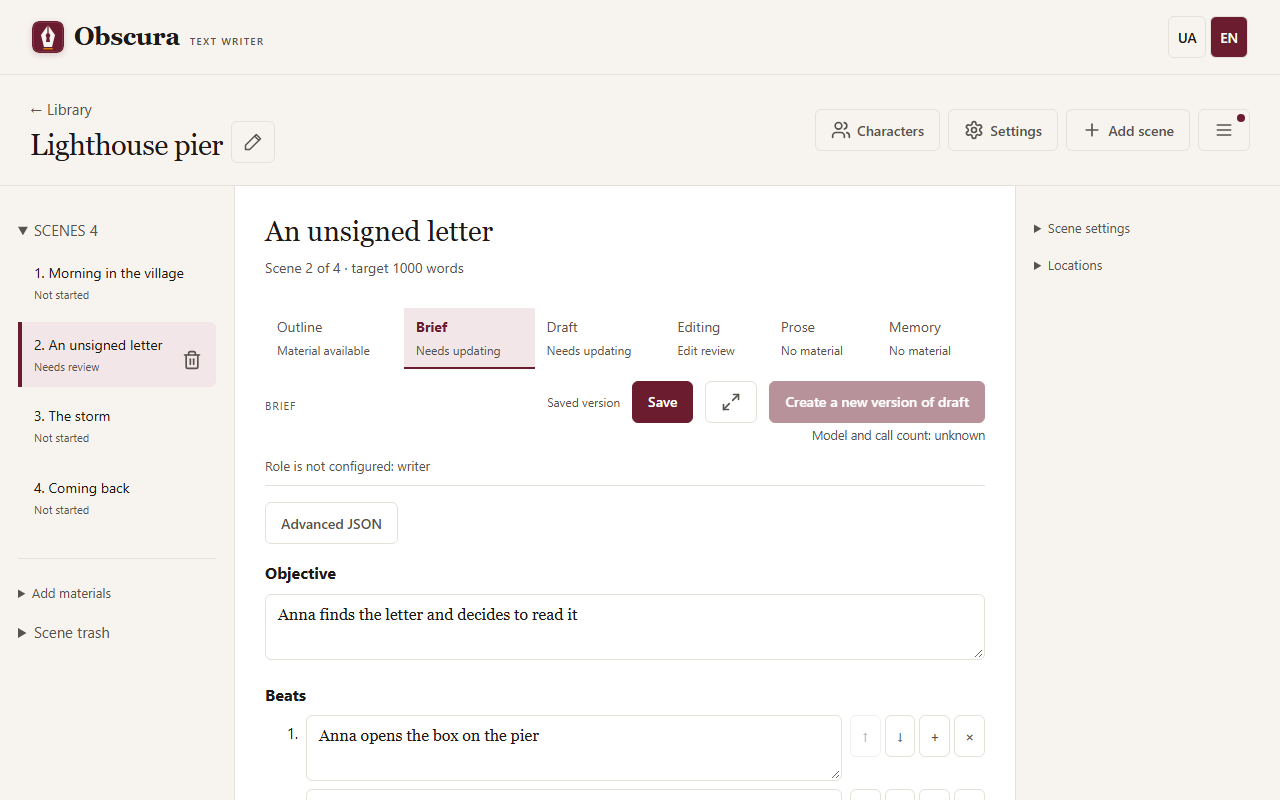
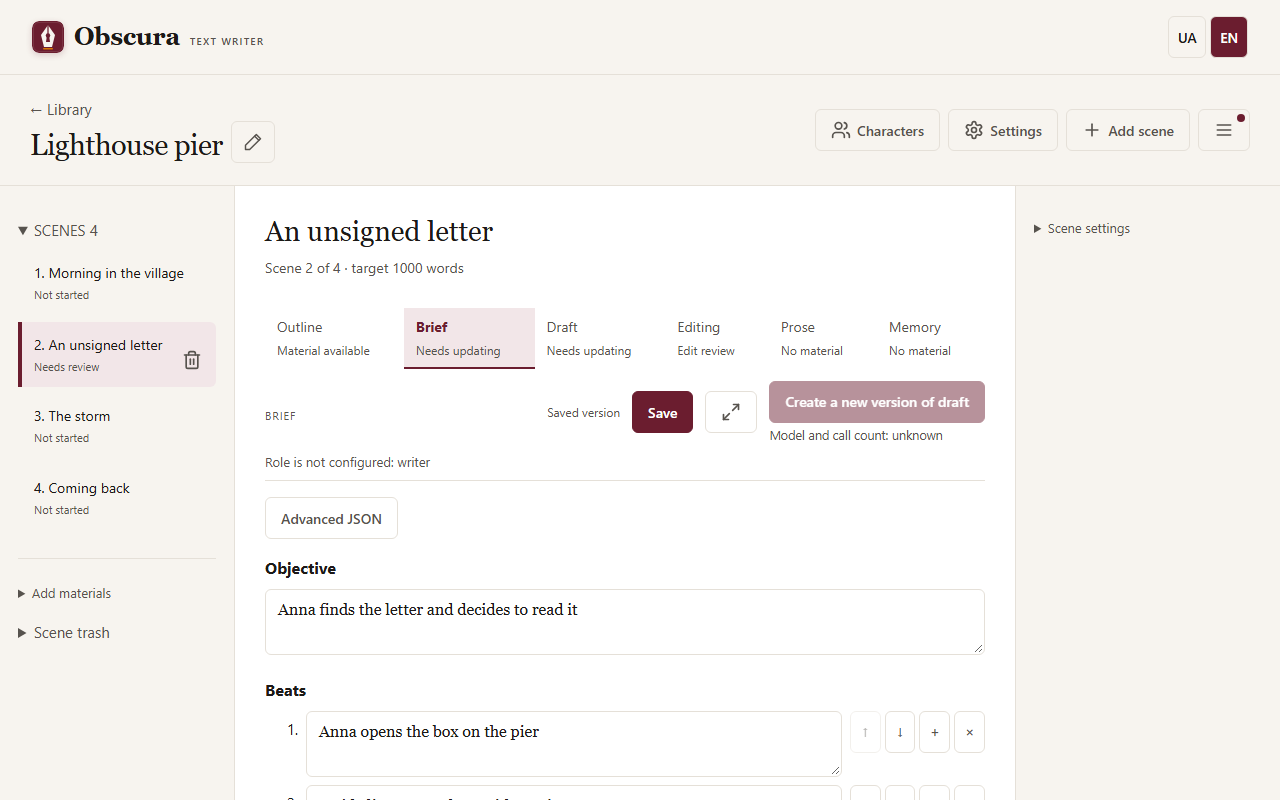
fix(locations): панель «Локації» — у вкладці «Пам'ять», не в правій панелі (#67)
Права панель за WORKSPACE-TOOLS містить лише розділи сцени; розділ «Локації» тепер іде після «Підсумків хронології».
Виправлено фейковий View у test_core_projection і значення location_id у test_long_prose_guard; знімки сайту — лише нові.

diff --git a/src/storygen/web/templates/story.html b/src/storygen/web/templates/story.html
@@ -7,7 +7,7 @@
 <section id="workspace-material" role="tabpanel" tabindex="-1" aria-labelledby="current-kind"><section id="memory-view" aria-label="{{ t('m_e8666e7283dd') }}" data-i18n-attrs='{"aria-label": "m_e8666e7283dd"}' hidden></section><section id="brief-proposal" hidden></section><textarea id="editor" aria-labelledby="scene-title current-kind" spellcheck="true" placeholder="{{ t('m_af47cedafa12') }}" data-i18n-attrs='{"placeholder": "m_af47cedafa12"}'></textarea><section id="brief-form" class="brief-form" aria-label="{{ t('brief_form.title') }}" data-i18n-attrs='{"aria-label": "brief_form.title"}' hidden></section><section id="brief-link" hidden></section><section id="author-comments" hidden></section><section id="ghost-entry" hidden></section><section id="ghost-mode" hidden></section><section id="assisted-writing" hidden></section><section id="assisted-review" hidden></section><section id="scene-statistics" class="scene-statistics" aria-label="{{ t('m_f6dc49558ea8') }}" data-i18n-attrs='{"aria-label": "m_f6dc49558ea8"}'></section><details class="workspace-output"><summary><span data-i18n="workspace.model_text">{{ t('workspace.model_text') }}</span></summary><pre id="live-text" hidden></pre></details><div id="copyedit-panel" hidden></div></section><p id="workspace-hint-info" class="workspace-hint-info" role="status"></p><section id="workspace-status-row" class="workspace-status-row" aria-label="{{ t('m_f9396174436c') }}" data-i18n-attrs='{"aria-label": "m_f9396174436c"}'><p id="workspace-scene-status" class="scene-status-badge"></p><div id="run-status"></div><div id="run-actions"></div><a id="workspace-error-settings" class="button secondary" hidden><span data-i18n="m_d8f26ba2b72c">{{ t('m_d8f26ba2b72c') }}</span></a>{% if edition() != 'store' %}<details id="run-options" class="run-options"><summary><span data-i18n="workspace.run_options">{{ t('workspace.run_options') }}</span></summary></details>{% endif %}</section><div id="review-attention" class="review-attention" tabindex="-1" hidden><p><a href="/stories/{{story.id}}/revision" data-i18n="workspace.review_attention">{{ t('workspace.review_attention') }}</a></p><section id="review-session" data-scope="attention" aria-live="polite" hidden></section></div>
 <details id="workspace-history"><summary><span data-i18n="m_1653560c8db6">{{ t('m_1653560c8db6') }}</span></summary><div id="version-panel"></div></details>
 {% if edition() != 'store' %}<details class="workspace-extra"><summary><span data-i18n="m_788d4b38107e">{{ t('m_788d4b38107e') }}</span></summary><div id="generation-controls" hidden></div></details>{% endif %}</main>
-<aside class="context-panel"><details class="tool-section" data-section="scene"><summary><span data-i18n="workspace.scene_section">{{ t('workspace.scene_section') }}</span></summary><div id="context-content"><p class="muted"><span data-i18n="m_8fe8cb15943c">{{ t('m_8fe8cb15943c') }}</span></p></div></details><details class="tool-section" data-section="locations"><summary><span data-i18n="locations.title">{{ t('locations.title') }}</span></summary><div id="story-locations"></div></details><details class="tool-section" data-section="evaluation" id="evaluation-section" hidden><summary><span data-i18n="workspace.evaluation_section">{{ t('workspace.evaluation_section') }}</span></summary><div id="evaluation-panel"></div></details></aside></div></div>
+<aside class="context-panel"><details class="tool-section" data-section="scene"><summary><span data-i18n="workspace.scene_section">{{ t('workspace.scene_section') }}</span></summary><div id="context-content"><p class="muted"><span data-i18n="m_8fe8cb15943c">{{ t('m_8fe8cb15943c') }}</span></p></div></details><details class="tool-section" data-section="evaluation" id="evaluation-section" hidden><summary><span data-i18n="workspace.evaluation_section">{{ t('workspace.evaluation_section') }}</span></summary><div id="evaluation-panel"></div></details></aside></div></div>
 <dialog id="export-dialog" class="export-dialog" aria-labelledby="export-dialog-title"><h2 id="export-dialog-title"><span data-i18n="workspace.menu_export">{{ t('workspace.menu_export') }}</span></h2><form id="export-form">
 <label><span data-i18n="m_b9563c38abce">{{ t('m_b9563c38abce') }}</span><select id="export-format"><option value="md">Markdown (.md)</option><option value="txt" data-i18n="m_99acdacdf084">{{ t('m_99acdacdf084') }}</option><option value="fb2">FictionBook (.fb2)</option><option value="epub" data-i18n="m_106712c3b6d5">{{ t('m_106712c3b6d5') }}</option><option value="pdf" data-i18n="m_e63157c8c14c">{{ t('m_e63157c8c14c') }}</option><option value="plan" data-i18n="export.plan_option">{{ t('export.plan_option') }}</option></select></label>
 <p id="export-fb2-note" class="muted" hidden><span data-i18n="m_5ba4a02d2226">{{ t('m_5ba4a02d2226') }}</span> <a href="/stories/{{story.id}}/publication"><span data-i18n="m_b58c6a66c1b7">{{ t('m_b58c6a66c1b7') }}</span></a>.</p><p class="muted"><span data-i18n="export.local_files">{{ t('export.local_files') }}</span></p>

diff --git a/src/storygen/web/static/locations-panel.js b/src/storygen/web/static/locations-panel.js
@@ -1,4 +1,5 @@
-// MEMORY-LOCATIONS-S07: the «Locations» section of the story side panel. Cards come from «Локація:» lines of scene plans;
+// MEMORY-LOCATIONS-S07: the «Locations» section of the memory panel (story-level, like timeline summaries; the right
+// side panel holds only scene sections, WORKSPACE-TOOLS). Cards come from «Локація:» lines of scene plans;
 // the author merges look-alikes, splits them back, hides a suggestion and writes a description for the planner and the
 // writer. Every change is CAS on the story revision; a refused save keeps the typed description.
 import {t,msg,uiText,uiAttr,diagnostic} from './i18n.js';
@@ -13,7 +14,12 @@ const drafts=new Map();  // card id -> typed description not saved yet
 
 const node=(tag,render,className)=>{const n=document.createElement(tag);if(className)n.className=className;if(render)uiText(n,'textContent',render);return n};
 function button(render,onclick,primary=false){const b=node('button',render,primary?'':'secondary');b.type='button';b.disabled=busy;b.onclick=onclick;return b}
-const box=()=>document.querySelector('#story-locations');
+function box(){
+  const panel=document.querySelector('#memory-view');if(!panel)return null;
+  let section=panel.querySelector('#story-locations');
+  if(!section){section=document.createElement('section');section.id='story-locations';section.className='story-locations';panel.append(section)}
+  return section;
+}
 
 function description(row){
   const wrap=node('details',null,'location-description');
@@ -41,7 +47,7 @@ function chooser(row){
 
 function draw(){
   const section=box();if(!section)return;
-  section.replaceChildren(node('p',()=>t('locations.hint'),'hint'));
+  section.replaceChildren(node('h3',()=>t('locations.title')),node('p',()=>t('locations.hint'),'hint'));
   const rows=locationRows(data);
   if(!rows.length){section.append(node('p',()=>t('locations.empty')));return}
   const hints=suggestionRows(data);
@@ -76,7 +82,7 @@ function draw(){
 }
 
 async function load(){
-  if(!state.storyId||!box())return;
+  if(!state.storyId||!document.querySelector('#memory-view'))return;
   if(storyId!==state.storyId){drafts.clear();choosing=null;storyId=state.storyId}
   try{data=await api(`/api/stories/${state.storyId}/locations`)}catch(e){data=null}
   draw();

diff --git a/src/storygen/web/static/app.css b/src/storygen/web/static/app.css
@@ -677,10 +677,11 @@ body.ghost-open #notice { z-index: 70; }
 .timeline-summary-state{color:var(--muted,#666);font-size:.9em}
 .timeline-summary-text{white-space:pre-wrap}
 .timeline-summary-editor{width:100%;box-sizing:border-box}
-/* MEMORY-LOCATIONS-S07: the «Locations» section of the story side panel. */
+/* MEMORY-LOCATIONS-S07: the «Locations» section of the memory panel. */
+.story-locations{margin-top:1.5rem;border-top:1px solid var(--border,#ccc);padding-top:1rem}
 .location-row{margin:.75rem 0}
 .location-row>p{margin:.25rem 0}
-.location-description textarea{width:100%;box-sizing:border-box}
+.location-description textarea{width:100%;box-sizing:border-box;min-height:4.5rem;height:auto}
 .location-description[open]>summary .location-preview{display:none}
 .location-suggestion{margin:.5rem 0}
 

diff --git a/scripts/capture_screenshots.py b/scripts/capture_screenshots.py
@@ -121,13 +121,14 @@ def capture(base,ids,languages):
                         page.goto(f'{base}/stories/{story}?scene={scene}&material=brief');page.wait_for_load_state('networkidle')
                         page.locator('#brief-form').wait_for(state='visible');shot(page,folder/'brief-form-desktop.png',shots)
                     if suffix=='desktop':
-                        # MEMORY-LOCATIONS-S07: the «Locations» section of the side panel with a suggestion and a description.
-                        section=page.locator('details.tool-section[data-section=locations]')
-                        if not section.evaluate('node=>node.open'):section.locator(':scope > summary').click()
+                        # MEMORY-LOCATIONS-S07: the «Locations» section of the memory panel with a suggestion and a description.
+                        page.set_viewport_size({'width':1280,'height':2400})  # the whole section without the sticky tabs over it
+                        page.goto(f'{base}/stories/{story}?scene={scene}&material=memory');page.wait_for_load_state('networkidle')
+                        section=page.locator('#memory-view #story-locations')
                         section.locator('.location-row').first.wait_for();section.locator('.location-description').first.locator('summary').click()
                         section.scroll_into_view_if_needed();page.wait_for_timeout(300)
                         section.screenshot(path=str(folder/'locations-desktop.png'));shots.append(folder/'locations-desktop.png')
-                        section.locator(':scope > summary').click()
+                        page.set_viewport_size(viewport);page.goto(f'{base}/stories/{story}?scene={scene}&material=draft');page.wait_for_load_state('networkidle')
                     page.locator('#story-menu-toggle').click();page.locator('#story-menu').wait_for();shot(page,folder/f'story-menu-{suffix}.png',shots)
                     if suffix=='desktop':
                         for path,name in [(f'/stories/{story}/revision','revision'),(f'/stories/{story}/characters','characters'),

diff --git a/tests/web/test_locations_ui.py b/tests/web/test_locations_ui.py
@@ -23,7 +23,8 @@ def test_panel_rows_and_shared_revision():
 @pytest.mark.req('MEMORY-LOCATIONS')
 def test_story_page_has_the_section_and_both_languages_have_the_texts():
     page = (ROOT / 'src/storygen/web/templates/story.html').read_text(encoding='utf-8')
-    assert '/static/locations-panel.js' in page and 'data-section="locations"' in page and 'id="story-locations"' in page
+    assert '/static/locations-panel.js' in page
+    assert 'data-section="locations"' not in page  # WORKSPACE-TOOLS: the side panel holds only scene sections
     catalog = json.loads((STATIC / 'i18n.json').read_text(encoding='utf-8'))
     keys = {k for k in catalog['uk'] if k.startswith('locations.')} | {'memory.locations'}
     assert keys <= set(catalog['en']) and len(keys) > 20

diff --git a/tests/web/test_long_prose_guard.py b/tests/web/test_long_prose_guard.py
@@ -32,7 +32,7 @@ def setup(tmp_path, structured=True):
 
 def url(path, story, scene):
     values = {'story_id': story.id, 'scene_id': scene.id, 'run_id': 'run1', 'attempt_id': 'x', 'stage': 'brief', 'call_id': 'x',
-              'record_id': 'x', 'name': 'x', 'block_key': 'range:1-10'}
+              'record_id': 'x', 'name': 'x', 'block_key': 'range:1-10', 'location_id': 'x'}
     def value(match):
         name = match[1]
         if name == 'id':

diff --git a/tests/memory/test_core_projection.py b/tests/memory/test_core_projection.py
@@ -94,6 +94,7 @@ def scene(**kw):
 class View:
     def __init__(self,j,scenes,versions):
         self.j,self.scenes,self.versions=j,scenes,versions
+        self.locations={}  # MEMORY-LOCATIONS: every ContextView carries the story location cards
     def get_scene(self,id):return next(s for s in self.scenes if s.id==id)
     peek_scene=get_scene
     def list_scenes(self,story_id):return list(self.scenes)

diff --git a/SPEC.MD b/SPEC.MD
@@ -1017,7 +1017,7 @@ brief, draft, повної редактури й rewrite SHALL містити о
 - **Журнал.** `MemoryEvent.location_ids` — поле запису: порожнє не серіалізується (старі журнали й версії байт у байт), до ID запису й ключа дубліката не входить; непорожнє робить журнал v3. Зміни (`update`, `retire`, закриття лінії, перехід слота в `unknown`, рішення ядра автором, злиття арок) несуть `location_ids` свого запису, а `replay_memory` відхиляє зміну з іншими локаціями, а також повтор чи порожній ID локації («Некоректні локації пам’яті»). Ручне збереження бере для зміни без поля локації її запису, а явну іншу локацію відхиляє; факт розв’язки лінії (моделлю чи автором в огляді ядра) і стан атмосфери після переходу слота в `unknown` успадковують локації свого запису.
 - **wire v4.** `schema_bounds_v4(..., location_ids)` пише `bounds.location_ids` (канонічні локації сцени та їхні предки) лише для сцени з локаціями; тоді схема має обов’язкове `location_ids` з enum дозволених у додаваннях усіх чотирьох категорій, а запит — розділ «ДОЗВОЛЕНІ LOCATION_IDS…» з інструкцією й словником ID → шлях. Модель відповіді має `location_ids` необов’язковим (старі відповіді валідні). ID поза дозволеними чи повтор — `location_unknown`, відповідь відхиляється. Вбудовані промпти й версія контракту `/4` не змінюються: інструкція — у самому розділі.
 - **API** (`web/routes_locations.py`, `storage/locations.py::locations_view`/`change_locations`). `GET /api/stories/{id}/locations` — `{story_revision, locations[{id, path, parent_id, merged_into, target_path (шлях кінцевої цілі злиття), description, scenes[{id, position, title}]}], suggestions[{a, b, a_path, b_path}]}`; `scenes` — активні сцени, чиї локації після злиттів дорівнюють картці (сцени вкладених карток — у своїх картках, кошик не показується). Зміни приймають `expected_revision` твору: `POST …/locations/{lid}/merge` (`into`), `POST …/locations/{lid}/split`, `POST …/locations/dismiss` (`a`, `b`), `PUT …/locations/{lid}` (`description` ≤ 2000, інакше 422). Кожна в `BEGIN IMMEDIATE` перевіряє ревізію (інакше `RevisionConflict` → 409 без змін), застосовує дію сховища (невідома картка, самозлиття чи цикл → 400) і збільшує ревізію твору на 1; відповідь — свіжий перелік. Тексти помилок мають ключі `locations.error.*` у каталозі uk/en.
-- **Панель «Локації»** (`static/locations-panel.js`, рядки — `static/locations.js`): розділ `data-section="locations"` бічної панелі твору (доступний з будь-якого матеріалу сцени). Дерево карток: вкладені — під батьком, злита — під ціллю з «Злито в «…»» і кнопкою «Розділити»; для незлитої — сцени, поле опису з лічильником «N / 2000» і «Зберегти опис», «Злити в…» з вибором цілі серед незлитих карток. Підказки «Схожі назви»: пізніша картка зливається в ту, що з’явилася першою, після підтвердження; «Не схожі» відхиляє пару. Відхилене збереження опису лишає набраний текст. Панелі однієї вкладки, що тримають ревізію твору для CAS (позначки типу запису, підсумки хронології, локації), повідомляють одна одній про свій запис (`static/story-revision.js`); інша панель переходить на нову ревізію лише тоді, коли цей запис — єдина зміна з її завантаження, тож зміна з іншої вкладки лишається конфліктом.
+- **Панель «Локації»** (`static/locations-panel.js`, рядки — `static/locations.js`): розділ рівня твору в панелі пам’яті сцени, після «Підсумків хронології» (права панель лишається лише для розділів сцени, [WORKSPACE-TOOLS](#workspace-tools)). Дерево карток: вкладені — під батьком, злита — під ціллю з «Злито в «…»» і кнопкою «Розділити»; для незлитої — сцени, поле опису з лічильником «N / 2000» і «Зберегти опис», «Злити в…» з вибором цілі серед незлитих карток. Підказки «Схожі назви»: пізніша картка зливається в ту, що з’явилася першою, після підтвердження; «Не схожі» відхиляє пару. Відхилене збереження опису лишає набраний текст. Панелі однієї вкладки, що тримають ревізію твору для CAS (позначки типу запису, підсумки хронології, локації), повідомляють одна одній про свій запис (`static/story-revision.js`); інша панель переходить на нову ревізію лише тоді, коли цей запис — єдина зміна з її завантаження, тож зміна з іншої вкладки лишається конфліктом.
 - **Таблиця пам’яті.** Рядок `memory-view` має `locations` — шляхи канонічних карток запису (злита — як ціль); таблиця показує «Локації: …» під цитатою, пошук враховує шляхи. MCP `get_scene_text(material=memory)` поля не має (`MEMORY_FIELDS`).
 - **Відбір і проєкція.** `memory_items(..., place)` не відкидає стан відсутнього персонажа з локацією в околиці; `MemoryItem.location_ids`. Шар `place` у `LAYERS` після `present`: стан, лінія чи факт з локацією в околиці, якщо запис не потрапив вище (`core`, `hero_recent` для свіжого стану героя, `threads` для лінії, що згадує учасника, `present` для стану учасника); хронологія лишається в `timeline`. `narrow_catalog(..., place)` лишає стани й факти околиці.
 
@@ -1073,7 +1073,7 @@ brief, draft, повної редактури й rewrite SHALL містити о
 <a id="memory-locations-s07"></a>
 #### Scenario: MEMORY-LOCATIONS-S07 — API, панель «Локації» й таблиця пам’яті
 - GIVEN твір із картками локацій, схожими назвами й вкладеним місцем
-- WHEN автор відкриває розділ «Локації», зливає підказку, розділяє, відхиляє пару або зберігає опис
+- WHEN автор відкриває розділ «Локації» панелі пам’яті, зливає підказку, розділяє, відхиляє пару або зберігає опис
 - THEN перелік SHALL показувати картки деревом зі сценами, підказки без пар предок–нащадок, а кожна зміна SHALL перевіряти ревізію твору, збільшувати її й повертати свіжий перелік
 - AND застаріла ревізія SHALL давати 409 без змін, а відхилене збереження опису SHALL лишати набраний текст
 - AND зміна в розділі SHALL не робити наступну зміну типу запису в таблиці пам’яті конфліктом, а рядки таблиці SHALL показувати локації записів.

diff --git a/docs/superpowers/plans/2026-10-20-remediation-progress.md b/docs/superpowers/plans/2026-10-20-remediation-progress.md
@@ -2538,6 +2538,6 @@ Inherited whitespace у ліцензійному тексті tokenizers із ma
 ## 2026-11-22 — #67: локації, PR 2 — API, панель «Локації», таблиця пам'яті й сайт (MEMORY-LOCATIONS-S07)
 
 - План: [2026-11-22-memory-locations-ui.md](2026-11-22-memory-locations-ui.md); PR 1 злито (#257). Гілка `claude/memory-locations-ui`.
-- Реалізовано: API `/api/stories/{id}/locations` (перелік зі сценами й підказками, злиття, розділення, «не схожі», опис) з CAS за ревізією твору; розділ «Локації» бічної панелі твору; рядки таблиці пам'яті показують локації; спільна ревізія твору між панелями вкладки (`story-revision.js`); знімок панелі в `capture_screenshots.py`; сайт «Пам'ять», «Перший твір», «MCP» uk/en.
-- Рішення під час реалізації: (1) панель — у бічній панелі твору (`data-section="locations"`), а не в панелі пам'яті сцени, як у спеці («у контексті твору»): опис потрібен планувальнику й письменнику з будь-якого матеріалу; (2) підказки не пропонують пари предок–нащадок — дефект ядра PR 1, вкладене місце ділить слова з тим, що його містить; (3) сцени картки — лише ті, що називають її прямо (злиття враховано), вкладені — у своїх картках; (4) локації рядків пам'яті не йдуть у MCP `get_scene_text` (`MEMORY_FIELDS` незмінний); (5) запис однієї панелі не робить наступний запис іншої хибним конфліктом, але зміна з іншої вкладки лишається конфліктом.
+- Реалізовано: API `/api/stories/{id}/locations` (перелік зі сценами й підказками, злиття, розділення, «не схожі», опис) з CAS за ревізією твору; розділ «Локації» в панелі пам'яті сцени; рядки таблиці пам'яті показують локації; спільна ревізія твору між панелями вкладки (`story-revision.js`); знімок панелі в `capture_screenshots.py`; сайт «Пам'ять», «Перший твір», «MCP» uk/en.
+- Рішення під час реалізації: (1) панель — розділ рівня твору в панелі пам'яті сцени, як «Підсумки хронології»: права панель за WORKSPACE-TOOLS містить лише розділи сцени (спроба розмістити її там зламала `test_side_panel_holds_only_scene_sections`); (2) підказки не пропонують пари предок–нащадок — дефект ядра PR 1, вкладене місце ділить слова з тим, що його містить; (3) сцени картки — лише ті, що називають її прямо (злиття враховано), вкладені — у своїх картках; (4) локації рядків пам'яті не йдуть у MCP `get_scene_text` (`MEMORY_FIELDS` незмінний); (5) запис однієї панелі не робить наступний запис іншої хибним конфліктом, але зміна з іншої вкладки лишається конфліктом.
 - Предмети (друга частина #67) — окрема спека; #67 лишається відкритим.

diff --git a/docs/site/uk/memory.md b/docs/site/uk/memory.md
@@ -34,7 +34,7 @@
 
 ![Розділ «Локації» з підказкою схожої назви й описом місця](../../images/site/uk/locations-desktop.png)
 
-Картки видно в розділі **Локації** бічної панелі твору:
+Картки видно в розділі **Локації** внизу вкладки **Пам’ять** будь-якої сцени:
 
 - **Опис локації** — необов’язковий текст до 2000 знаків. Його бачать планувальник і письменник (також через MCP), модель пам’яті — ні. Зміна опису робить застарілими завдання й чернетки сцен у цьому місці та вкладених.
 - **Схожі назви** підказують можливі дублікати, як-от друкарську помилку «Пристань» / «Пристаннь». **Злити** робить пізнішу картку частиною першої, **Не схожі** ховає підказку назавжди.

diff --git a/docs/site/en/memory.md b/docs/site/en/memory.md
@@ -34,7 +34,7 @@ The memory model marks records with the scene's places. When memory does not fit
 
 ![The «Locations» section with a similar-name suggestion and a place description](../../images/site/en/locations-desktop.png)
 
-The cards are in the **Locations** section of the story side panel:
+The cards are in the **Locations** section at the bottom of the **Memory** tab of any scene:
 
 - **Location description** is optional text of up to 2000 characters. The planner and the writer see it (also through MCP); the memory model does not. Changing it makes the briefs and drafts of scenes in that place and the places inside it outdated.
 - **Similar names** suggests possible duplicates, such as the typo "Pier" / "Peir". **Merge** makes the later card part of the first one; **Not alike** hides the suggestion for good.
